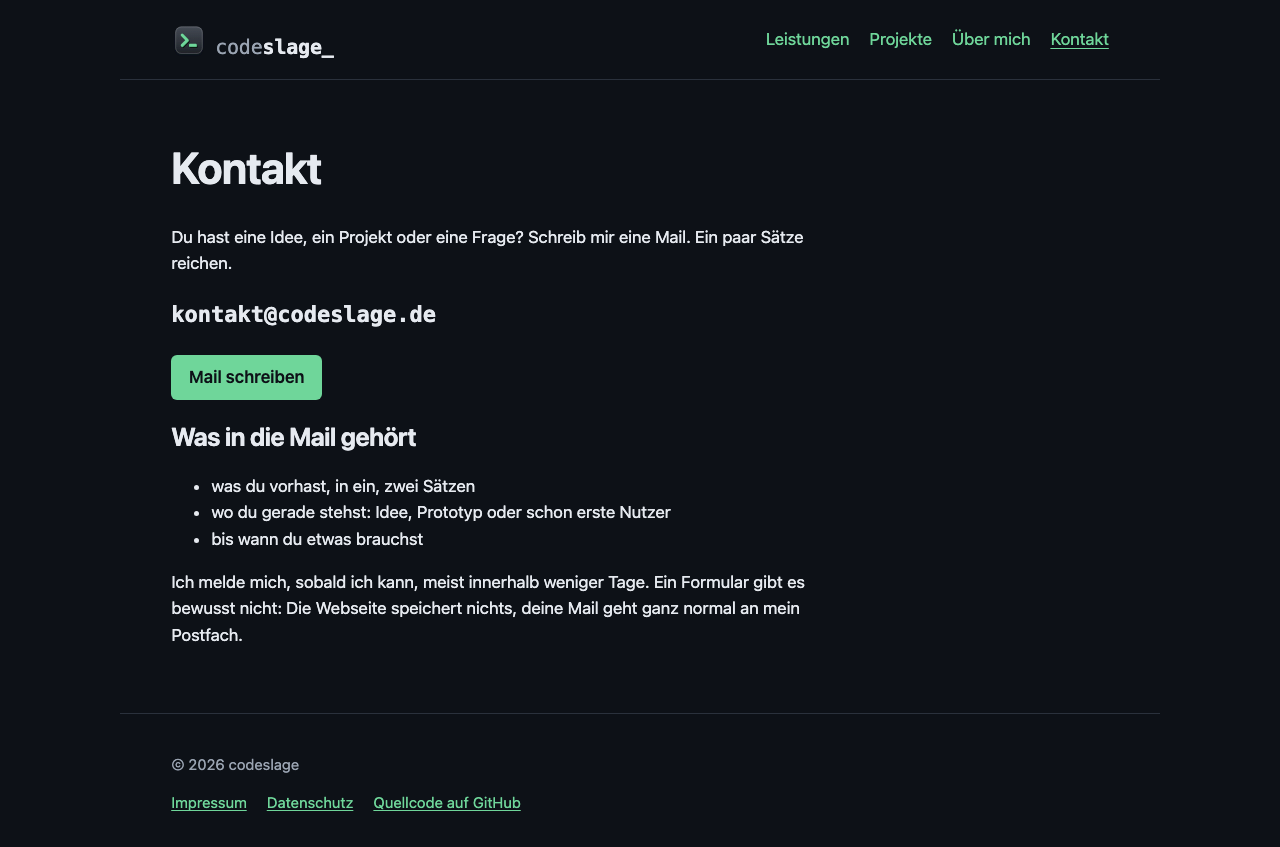
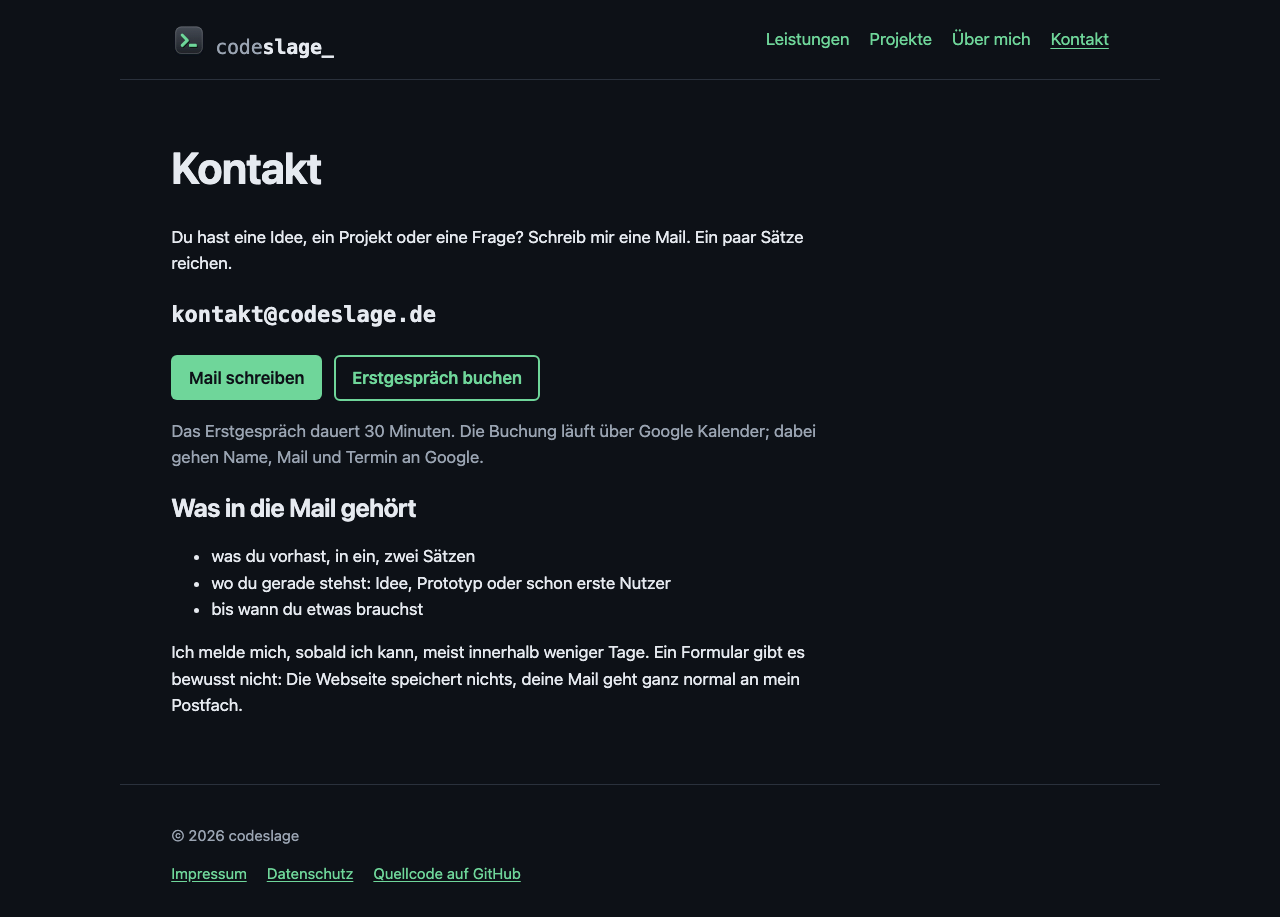
T-12: Link „Erstgespräch buchen“ auf die Kontaktseite (Text-PR, erneute Freigabe nötig)

diff --git a/apps/web/e2e/contact.spec.ts b/apps/web/e2e/contact.spec.ts
@@ -14,6 +14,13 @@ test('die Kontaktseite zeigt die Adresse und genau einen Mail-Link', async ({ pa
   expect(await mailLinks.getAttribute('href')).toMatch(new RegExp(`^mailto:${ADDRESS}(\\?|$)`));
 });
 
+test('die Kontaktseite verlinkt die Buchungsseite für ein Erstgespräch, ohne sie einzubetten', async ({ page }) => {
+  await page.goto('/kontakt/');
+  const booking = page.getByRole('link', { name: 'Erstgespräch buchen' });
+  await expect(booking).toHaveAttribute('href', 'https://calendar.app.google/AoVREVhD3FnqSuMN7');
+  await expect(page.locator('iframe')).toHaveCount(0);
+});
+
 // Alle Seiten aus PAGES und die Fehlerseite (über einen unbekannten Pfad).
 const PATHS = [...PAGES.map((page) => page.path), '/gibt-es-nicht/'];
 // Kontakt-Aufrufe erkennt der Test an ihrem Text; „Mail schreiben“ ist der mailto-Link auf der Kontaktseite selbst.

diff --git a/apps/web/src/site/contact.ts b/apps/web/src/site/contact.ts
@@ -4,3 +4,7 @@
 export const CONTACT_ADDRESS = 'kontakt@codeslage.de';
 
 export const contactMailto = `mailto:${CONTACT_ADDRESS}?subject=${encodeURIComponent('Anfrage über codeslage.de')}`;
+
+// Öffentliche Buchungsseite für ein Erstgespräch (Google Kalender, Terminplan). Nur verlinkt, nicht eingebettet:
+// Die Webseite lädt nichts von Google (AK-4); Daten gehen erst bei einer Buchung an Google (Datenschutz, T-17).
+export const BOOKING_URL = 'https://calendar.app.google/AoVREVhD3FnqSuMN7';

diff --git a/apps/web/src/styles/global.css b/apps/web/src/styles/global.css
@@ -106,6 +106,27 @@ a:focus-visible {
   text-decoration: none;
 }
 
+.actions {
+  display: flex;
+  flex-wrap: wrap;
+  align-items: center;
+  gap: 0.75rem;
+}
+
+.button-secondary {
+  display: inline-block;
+  padding: 0.5rem 1rem;
+  border: 2px solid var(--accent);
+  border-radius: var(--radius);
+  color: var(--accent);
+  font-weight: 600;
+  text-decoration: none;
+}
+
+.muted {
+  color: var(--muted);
+}
+
 .contact-address {
   font-size: 1.375rem;
   font-weight: 600;

diff --git a/specs/06-webseite/tasks.md b/specs/06-webseite/tasks.md
@@ -34,22 +34,22 @@ Soll in Stunden (Claude, konservativ, inkl. Abstimmung); Ist aus `zeiten.md`, au
 
 ### Schritt 3 – Inhalte (Text-PRs)
 
-| ID   | Task                                                                                                                                                                                                                                     | AK           | Test                                                                              | Abhängig von | PR    | Soll | Ist | Status |
-| ---- | ---------------------------------------------------------------------------------------------------------------------------------------------------------------------------------------------------------------------------------------- | ------------ | --------------------------------------------------------------------------------- | ------------ | ----- | ---- | --- | ------ |
-| T-11 | 👤 V2 Foto liefern, V3 LinkedIn-Profil als PDF exportieren                                                                                                                                                                               | AK-11        | Eingang bestätigt                                                                 | –            | –     | 0,25 |     | ⬜     |
-| T-12 | 📝 Kontaktseite: Satz, `kontakt@codeslage.de` als Text, Button „Mail schreiben“ (`mailto:`), Hinweis, was in die Mail gehört; `contact.spec.ts` (alle Kontakt-Links → `/kontakt/`, Adresse sichtbar, genau ein `mailto:`, kein `<form>`) | AK-3, AK-11  | `contact.spec.ts` zuerst rot; Unit `contact.test.ts` (Adresse, kodierter Betreff) | T-10         | PR-6  | 1    | 0,5 | ✅     |
-| T-13 | 📝 Startseite: Überzeile, Kernsatz, Erklärung, „Schreib mir“ → `/kontakt/`, vier Leistungen kurz, Teaser Case Study                                                                                                                      | AK-3, AK-11  | `contact.spec.ts`, `navigation.spec.ts`                                           | T-12         | PR-7  | 1,5  |     | ⬜     |
-| T-14 | 📝 Leistungen nach `leistungen.md` (vier Bereiche, KI-Automatisierung „im Aufbau“, Pilotprojekte, Konditionen auf Anfrage, nicht im Angebot); offene Punkte aus Frage 14 mit dem Entwurf klären                                          | AK-11, AK-1  | `navigation.spec.ts`, `seo.spec.ts`                                               | T-12         | PR-8  | 1,5  |     | ⬜     |
-| T-15 | 📝 Projekte und Case Study „Wir bauen erst, wenn wir es brauchen“ (Quelle `docs/content/`, Soll/Ist-Zahlen) als Unterseite                                                                                                               | AK-16, AK-11 | `navigation.spec.ts`: Case-Study-Seite 200 und von „Projekte“ verlinkt            | T-12         | PR-9  | 2    |     | ⬜     |
-| T-16 | 📝 Über mich: Text aus dem LinkedIn-PDF ohne Arbeitgeber- und Kundennamen ohne Freigabe, Foto in passender Größe (Astro-Bildoptimierung), Arbeitsweise, Link zum Repo                                                                    | AK-11, AK-6  | Lighthouse-Job (Bildgröße), `navigation.spec.ts`                                  | T-11, T-12   | PR-10 | 1,5  |     | ⬜     |
+| ID   | Task                                                                                                                                                                                                                                                                                                                                             | AK           | Test                                                                              | Abhängig von | PR    | Soll | Ist | Status |
+| ---- | ------------------------------------------------------------------------------------------------------------------------------------------------------------------------------------------------------------------------------------------------------------------------------------------------------------------------------------------------ | ------------ | --------------------------------------------------------------------------------- | ------------ | ----- | ---- | --- | ------ |
+| T-11 | 👤 V2 Foto liefern, V3 LinkedIn-Profil als PDF exportieren                                                                                                                                                                                                                                                                                       | AK-11        | Eingang bestätigt                                                                 | –            | –     | 0,25 |     | ⬜     |
+| T-12 | 📝 Kontaktseite: Satz, `kontakt@codeslage.de` als Text, Button „Mail schreiben“ (`mailto:`), Hinweis, was in die Mail gehört; `contact.spec.ts` (alle Kontakt-Links → `/kontakt/`, Adresse sichtbar, genau ein `mailto:`, kein `<form>`); dazu Link „Erstgespräch buchen“ auf die Buchungsseite in Google Kalender (nur Link, nicht eingebettet) | AK-3, AK-11  | `contact.spec.ts` zuerst rot; Unit `contact.test.ts` (Adresse, kodierter Betreff) | T-10         | PR-6  | 1    | 0,5 | 🔄     |
+| T-13 | 📝 Startseite: Überzeile, Kernsatz, Erklärung, „Schreib mir“ → `/kontakt/`, vier Leistungen kurz, Teaser Case Study                                                                                                                                                                                                                              | AK-3, AK-11  | `contact.spec.ts`, `navigation.spec.ts`                                           | T-12         | PR-7  | 1,5  |     | ⬜     |
+| T-14 | 📝 Leistungen nach `leistungen.md` (vier Bereiche, KI-Automatisierung „im Aufbau“, Pilotprojekte, Konditionen auf Anfrage, nicht im Angebot); offene Punkte aus Frage 14 mit dem Entwurf klären                                                                                                                                                  | AK-11, AK-1  | `navigation.spec.ts`, `seo.spec.ts`                                               | T-12         | PR-8  | 1,5  |     | ⬜     |
+| T-15 | 📝 Projekte und Case Study „Wir bauen erst, wenn wir es brauchen“ (Quelle `docs/content/`, Soll/Ist-Zahlen) als Unterseite                                                                                                                                                                                                                       | AK-16, AK-11 | `navigation.spec.ts`: Case-Study-Seite 200 und von „Projekte“ verlinkt            | T-12         | PR-9  | 2    |     | ⬜     |
+| T-16 | 📝 Über mich: Text aus dem LinkedIn-PDF ohne Arbeitgeber- und Kundennamen ohne Freigabe, Foto in passender Größe (Astro-Bildoptimierung), Arbeitsweise, Link zum Repo                                                                                                                                                                            | AK-11, AK-6  | Lighthouse-Job (Bildgröße), `navigation.spec.ts`                                  | T-11, T-12   | PR-10 | 1,5  |     | ⬜     |
 
 ### Schritt 4 – Rechtliches (Text-PR)
 
-| ID   | Task                                                                                                                           | AK           | Test                                                                 | Abhängig von | PR    | Soll | Ist | Status |
-| ---- | ------------------------------------------------------------------------------------------------------------------------------ | ------------ | -------------------------------------------------------------------- | ------------ | ----- | ---- | --- | ------ |
-| T-17 | 📝 Datenschutzerklärung: Grundlage aus einem Generator (A8), abgeglichen mit Pages, Web Analytics und Mail-Link; keine Cookies | AK-12, AK-11 | manuell: Prüfung durch den Inhaber, Protokoll                        | T-12         | PR-11 | 1,5  |     | ⬜     |
-| T-18 | 📝 Impressum mit den Werten aus `imprint.ts` und der Rollenadresse                                                             | AK-12, AK-11 | Unit (T-03); E2E: Impressum zeigt die Platzhalter aus `.env.example` | T-03, T-17   | PR-11 | 0,75 |     | ⬜     |
-| T-19 | `docs/dsgvo.md`: Cloudflare Pages und Web Analytics ergänzen; `docs/kosten.md`: Pages und Web Analytics im Free-Plan, 0 €      | AK-14, AK-15 | Review                                                               | –            | PR-11 | 0,5  |     | ⬜     |
+| ID   | Task                                                                                                                                                                                                                      | AK           | Test                                                                 | Abhängig von | PR    | Soll | Ist | Status |
+| ---- | ------------------------------------------------------------------------------------------------------------------------------------------------------------------------------------------------------------------------- | ------------ | -------------------------------------------------------------------- | ------------ | ----- | ---- | --- | ------ |
+| T-17 | 📝 Datenschutzerklärung: Grundlage aus einem Generator (A8), abgeglichen mit Pages, Web Analytics und Mail-Link; keine Cookies; Terminbuchung über Google Kalender (Name, Mail, Termin gehen bei einer Buchung an Google) | AK-12, AK-11 | manuell: Prüfung durch den Inhaber, Protokoll                        | T-12         | PR-11 | 1,5  |     | ⬜     |
+| T-18 | 📝 Impressum mit den Werten aus `imprint.ts` und der Rollenadresse                                                                                                                                                        | AK-12, AK-11 | Unit (T-03); E2E: Impressum zeigt die Platzhalter aus `.env.example` | T-03, T-17   | PR-11 | 0,75 |     | ⬜     |
+| T-19 | `docs/dsgvo.md`: Cloudflare Pages und Web Analytics ergänzen; `docs/kosten.md`: Pages und Web Analytics im Free-Plan, 0 €; beim Eintrag Google den Zweck „Terminbuchung“ ergänzen                                         | AK-14, AK-15 | Review                                                               | –            | PR-11 | 0,5  |     | ⬜     |
 
 ### Schritt 5 – Infrastruktur als Code (Entwurfs-PR bis Schritt 6)
 

diff --git a/specs/06-webseite/zeiten.md b/specs/06-webseite/zeiten.md
@@ -65,6 +65,8 @@ Methode:
 | T-12       | Arbeit    | 2026-11-21 18:19 | 2026-11-21 18:22 | 0:03  | Doku, PR, Review                                                                                                                                         |
 | T-12       | Wartezeit | 2026-11-21 18:22 | 2026-11-21 18:37 | 0:15  | Freigabe der Kontaktseite (Text-PR #63)                                                                                                                  |
 | T-12       | Arbeit    | 2026-11-21 18:37 | 2026-11-21 18:38 | 0:01  | Freigabe eingetragen, Merge                                                                                                                              |
+| T-12       | Arbeit    | 2026-11-21 18:38 | 2026-11-21 18:43 | 0:05  | CI rot nach Freigabe: Ursache Ruleset `ci-ok` vor #62, nicht gemergt                                                                                     |
+| T-12       | Arbeit    | 2026-11-23 13:24 | 2026-11-23 13:31 | 0:07  | Buchungslink „Erstgespräch buchen“ (Auftrag der Hauptsitzung, URL vom Inhaber), `main` mit #62 hineingemergt, Test (rot), Screenshots, Checks            |
 
 Die Sitzungen „Leistungen“ sowie „Gestaltung und Logo“ (Stufe 2) haben ihre Zeiten sekundengenau nach der Systemuhr erfasst. Übernommen sind sie hier auf die Minute und nur dort, wo keine Zeile dieser Sitzung schon läuft, damit nichts doppelt zählt. Für sich genommen kamen sie auf 2:36 min Arbeit und 7:28 min Wartezeit (Leistungen) bzw. 5:28 min Arbeit und 6:10 min Wartezeit (Gestaltung), überwiegend parallel zur Zeile „Spec“.
 
@@ -88,4 +90,4 @@ Die Sitzung „Gestaltung und Logo“ lief nach Stufe 2 weiter (Runden 3–7). I
 | T-09       | 0:16   | 0:00      | 0:16   |
 | T-08       | 0:15   | 0:12      | 0:27   |
 | T-10       | 0:19   | 2:06      | 2:25   |
-| T-12       | 0:09   | 0:15      | 0:24   |
+| T-12       | 0:21   | 0:15      | 0:36   |

diff --git a/docs/protokolle/2026-11-21-t-12-kontakt.md b/docs/protokolle/2026-11-21-t-12-kontakt.md
@@ -13,3 +13,10 @@
 6. **Hinweis:** Den Alias `kontakt@codeslage.de` gibt es noch nicht (V1). Vor dem Livegang legt der Inhaber ihn an (T-23).
 7. **Review (kein 🔴):** Test ergänzt: Jeder Kontakt-Link auf jeder Seite, auch auf der 404-Seite, zeigt auf `/kontakt/`. Gegenprobe mit `/kontakt` ohne Schrägstrich: 8 Tests rot. Der Kommentar zur einzigen Quelle der Adresse ist präzisiert. E2E 77 von 77.
 8. **Freigabe:** Der Inhaber hat den Text am 2026-11-21 um 18:37 im Chat freigegeben („Ja, freigeben“).
+9. **CI nach der Freigabe rot (2026-11-21):** Das Ruleset verlangte seit 18:37 nur noch `ci-ok`. Den Job gab es aber erst mit #62 (Phase 1.5). Gemergt habe ich deshalb nicht. #62 ist inzwischen gemergt, `main` steht jetzt in diesem Branch. Im CHANGELOG gab es einen Konflikt, beide Einträge sind behalten.
+10. **Nachtrag Buchungslink (2026-11-23):** Die Hauptsitzung hat ihn auf Wunsch des Inhabers in Auftrag gegeben, die URL kam vom Inhaber.
+    - Neben „Mail schreiben“ steht jetzt „Erstgespräch buchen“, ein schlichter Link auf die Buchungsseite in Google Kalender (`BOOKING_URL` in `contact.ts`).
+    - Nicht eingebettet: Die Webseite lädt nichts von Google (AK-4). Ein Satz darunter nennt die Dauer (30 Minuten) und sagt, dass bei einer Buchung Name, Mail und Termin an Google gehen.
+    - Test zuerst rot: `contact.spec.ts` prüft Link-Ziel und dass es kein `iframe` gibt. E2E 78 von 78, Lighthouse und alle Checks grün.
+    - Datenschutzerklärung (T-17) und `docs/dsgvo.md` (T-19, Zweck „Terminbuchung“ beim Eintrag Google) sind in `tasks.md` vorgemerkt.
+11. **Freigabe:** Der neue Text braucht eine erneute Freigabe des Inhabers, weil die erste vom 2026-11-21 den Buchungslink noch nicht umfasste.

diff --git a/CHANGELOG.md b/CHANGELOG.md
@@ -10,7 +10,7 @@ Alle nennenswerten Änderungen an `codeslage/werkstatt`. Neue Einträge stehen o
 
 ### Hinzugefügt
 
-- 2026-11-21 – Phase 2, Schritt 3 (PR-6, T-12, Text-PR): Kontaktseite mit Rollenadresse und Mail-Link, kein Formular; Tests für AK-3 (#63).
+- 2026-11-21 – Phase 2, Schritt 3 (PR-6, T-12, Text-PR): Kontaktseite mit Rollenadresse, Mail-Link und Link „Erstgespräch buchen“ (Google Kalender, nicht eingebettet), kein Formular; Tests für AK-3 (#63).
 - 2026-11-21 – Phase 1.5, Schritt 1 (PR-1, T-01 bis T-06, T-47): CodeslageWerkzeugKasten in werkstatt – `tools/cwk` (Schema, `check`, `ci-ok`, `settings`), `cwk/manifest.json` mit Regel- und Code-Teil, wiederverwendbare Workflows `cwk-rules.yml` und `cwk-code.yml`; einziger Pflicht-Check ist `ci-ok` (#62).
 - 2026-11-20 – Phase 2, Schritt 2 (PR-5, T-10, Text-PR): Logo-Zeichen und zweiteilige Wortmarke `codeslage_` im Header, Touch-Icon; Test für Logo, Favicon und Touch-Icon (#61).
 - 2026-11-20 – Phase 2, Schritt 1 (PR-3, T-08, Text-PR): Seitentitel, Beschreibungen, Navigation, Footer und Fehlerseite mit fertigen Texten; Tests gegen Platzhalter (#60).
